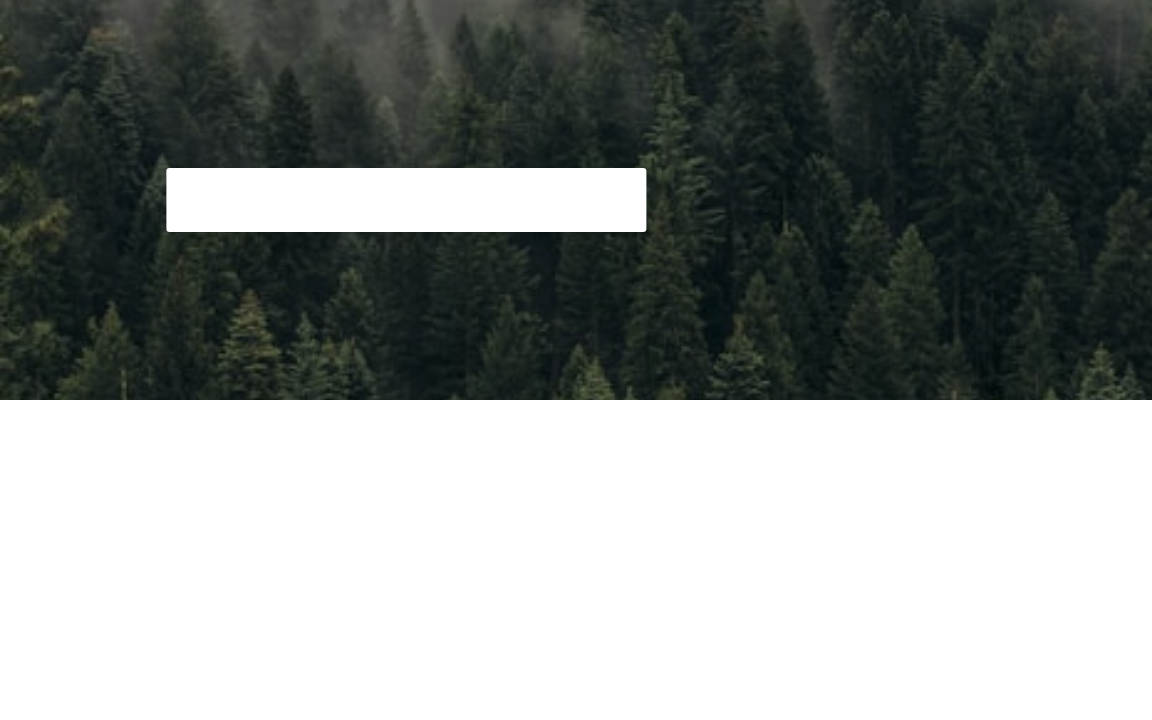
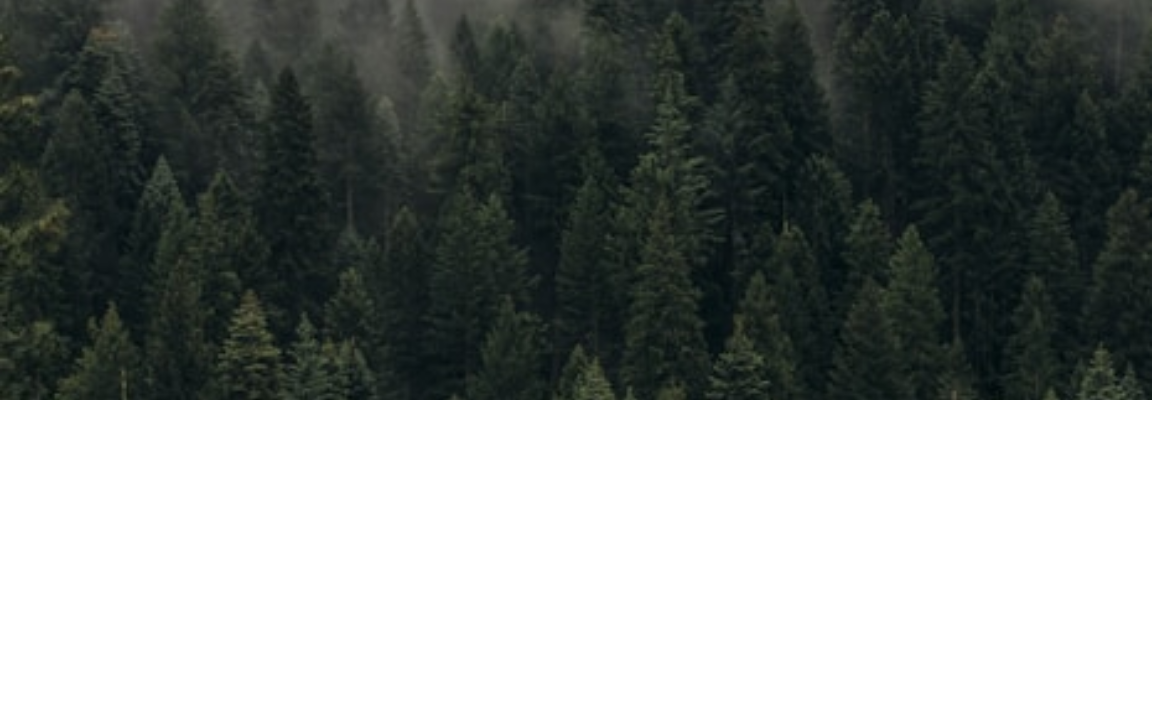
comments

Changed region(s): [[0.125, 0.2139, 0.5625, 0.3361]]

diff --git a/packages/visual-editor/src/components/pageSections/NearbyLocations/NearbyLocationCard.tsx b/packages/visual-editor/src/components/pageSections/NearbyLocations/NearbyLocationCard.tsx
@@ -61,6 +61,9 @@ export const NearbyLocationCard: React.FC<NearbyLocationCardProps> = (
     relativePrefixToRoot ?? ""
   );
 
+  const showPhone = styles.showPhone && mainPhone;
+  const showAddress = styles.showAddress && address;
+
   return (
     <Background
       background={styles.backgroundColor}
@@ -87,7 +90,9 @@ export const NearbyLocationCard: React.FC<NearbyLocationCardProps> = (
         </Heading>
       </MaybeLink>
       {styles.showHours && hours && (
-        <div className="mb-2 font-semibold font-body-fontFamily text-body-fontSize">
+        <div
+          className={`font-semibold font-body-fontFamily text-body-fontSize ${showPhone || showAddress ? "mb-2" : ""}`}
+        >
           <HoursStatusAtom
             hours={hours}
             className="h-full"
@@ -99,7 +104,7 @@ export const NearbyLocationCard: React.FC<NearbyLocationCardProps> = (
           />
         </div>
       )}
-      {styles.showPhone && mainPhone && (
+      {showPhone && (
         <PhoneAtom
           eventName={`phone${cardNumber}`}
           phoneNumber={mainPhone}
@@ -108,7 +113,7 @@ export const NearbyLocationCard: React.FC<NearbyLocationCardProps> = (
           includeIcon={false}
         />
       )}
-      {styles.showAddress && address && (
+      {showAddress && (
         <div className="font-body-fontFamily font-body-fontWeight text-body-fontSize">
           <Address
             address={address}

diff --git a/packages/visual-editor/src/components/pageSections/PromoSection/SpotlightPromo.tsx b/packages/visual-editor/src/components/pageSections/PromoSection/SpotlightPromo.tsx
@@ -52,12 +52,14 @@ export const SpotlightPromo: PuckComponent<PromoVariantProps> = (props) => {
               : "justify-end"
         }`}
       >
-        <Background
-          background={styles.backgroundColor}
-          className={`${promoContentParentCn(styles)} rounded shadow-lg p-6 md:p-10 max-w-[600px]`}
-        >
-          <PromoContent {...props} />
-        </Background>
+        {(styles.showHeading || styles.showDescription || styles.showCTA) && (
+          <Background
+            background={styles.backgroundColor}
+            className={`${promoContentParentCn(styles)} rounded shadow-lg p-6 md:p-10 max-w-[600px]`}
+          >
+            <PromoContent {...props} />
+          </Background>
+        )}
       </PageSection>
     </div>
   );
